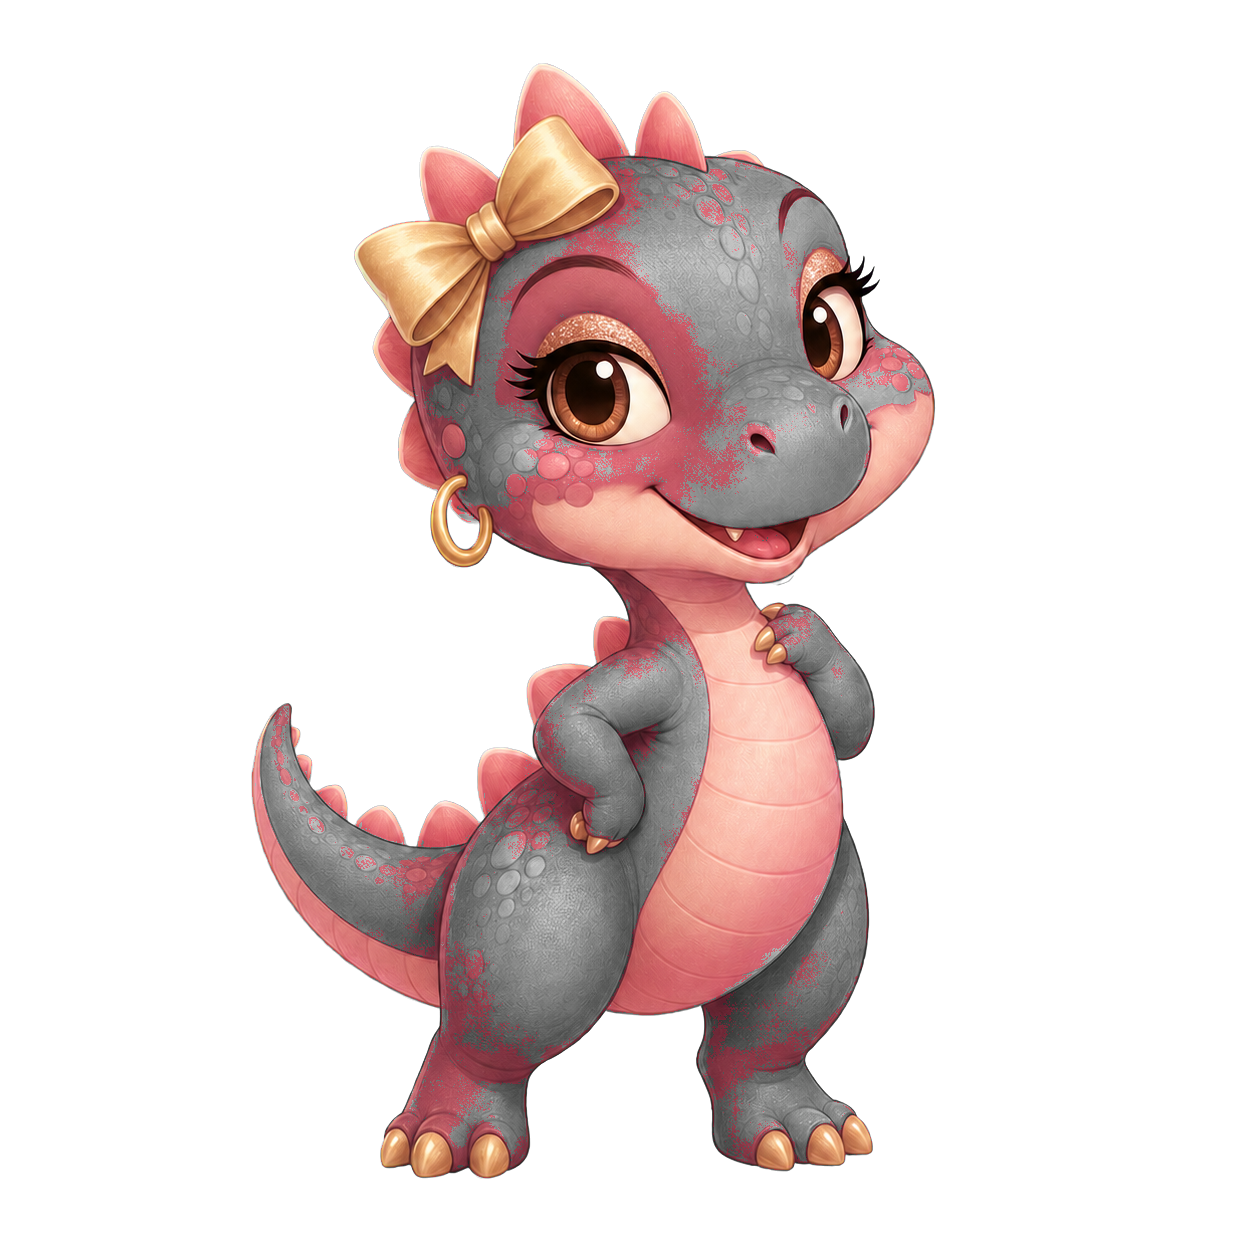
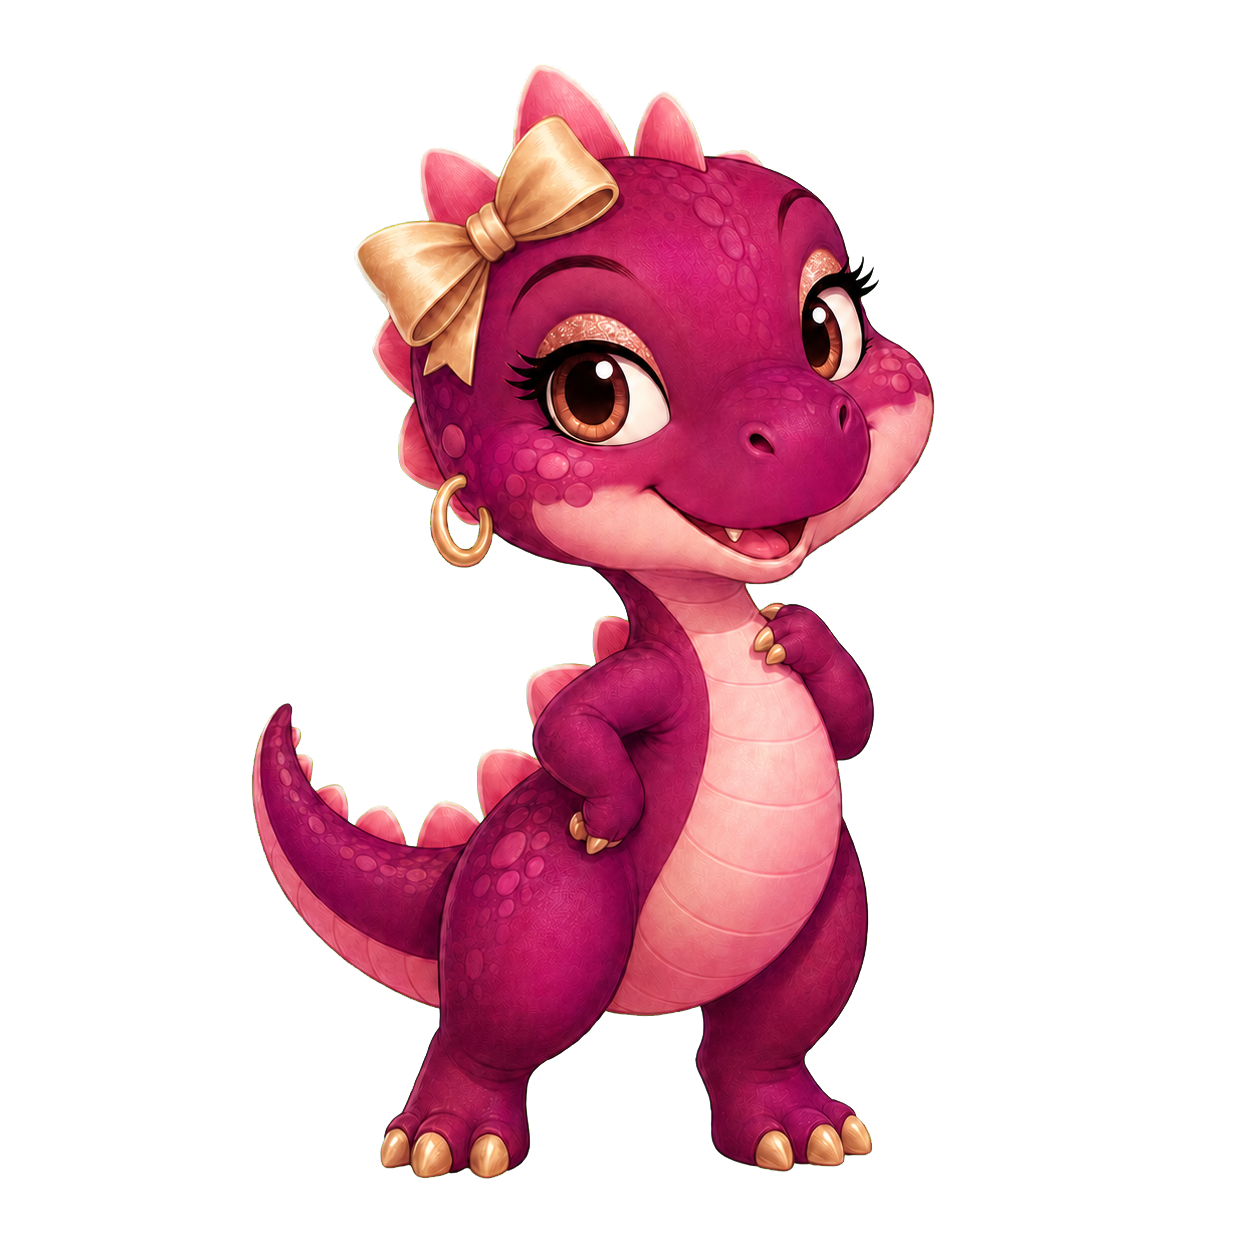
Add Lulu transformation and companion switching

Changed region(s): [[0.1866, 0.0622, 0.7464, 0.933]]

diff --git a/sprint6c1.js b/sprint6c1.js
@@ -11,8 +11,10 @@ const pageLines={
   profile:['That is my gorgeous bestie right there.']
 };
 const idleLines=['Girl… what are we doing over here? 👀','Bestie, I was just checking on you.','Queen, drink a little water with me?','Gorgeous, I am minding your business lovingly.'];
-let route='dashboard',bubbleTimer,idleTimer,lastLine='';
-const companionConfig=()=>({...{enabled:true,speech:true,frequency:'balanced',surprises:true,reducedMotion:false},...(store.get().companion||{})});
+const luluLines={lani:['Hi, baby girl. Let’s see what made Lani smile today.','Love, these little moments are worth keeping.'],default:['Hi, Shug. We can take today one gentle step at a time.','Sweetheart, you do not have to carry everything at once.']};
+let route='dashboard',bubbleTimer,idleTimer,moveTimer,lastLine='';
+const companionConfig=()=>({...{enabled:true,speech:true,frequency:'balanced',surprises:true,reducedMotion:false,mode:'auto'},...(store.get().companion||{})});
+const activeMode=()=>{const chosen=companionConfig().mode;return chosen==='auto'?(route==='lani'?'lulu':'kiki'):chosen};
 const pick=list=>{const pool=list.filter(line=>line!==lastLine),next=pool[Math.floor(Math.random()*pool.length)]||list[0];lastLine=next;return next};
 
 function say(message){
@@ -25,24 +27,32 @@ function scheduleIdle(){
   clearTimeout(idleTimer);const cfg=companionConfig();if(!cfg.enabled||cfg.frequency==='quiet')return;
   idleTimer=setTimeout(()=>{if(!document.hidden)say(pick(idleLines));scheduleIdle()},(cfg.frequency==='lively'?24000:50000)+Math.random()*14000);
 }
+function moveCompanion(immediate=false){
+  const host=document.querySelector('#kikiCompanion'),cfg=companionConfig();if(!host)return;
+  const width=host.getBoundingClientRect().width||140,min=window.innerWidth>760?280:10,max=Math.max(min,window.innerWidth-width-18);
+  host.style.setProperty('--companion-x',`${Math.round(min+Math.random()*(max-min))}px`);host.classList.toggle('is-walking',!immediate&&!cfg.reducedMotion);
+  clearTimeout(moveTimer);moveTimer=setTimeout(()=>{host.classList.remove('is-walking');moveCompanion()},cfg.frequency==='lively'?15000:26000);
+}
 function saveSetting(patch){store.mutate(d=>{d.companion={...companionConfig(),...patch}})}
 function applySettings(){
   const host=document.querySelector('#kikiCompanion'),cfg=companionConfig();if(!host)return;
-  host.hidden=!cfg.enabled;document.documentElement.dataset.companionMotion=cfg.reducedMotion?'reduced':'standard';scheduleIdle();
+  const mode=activeMode(),image=host.querySelector('img');host.hidden=!cfg.enabled;host.dataset.mode=mode;
+  image.src=mode==='lulu'?'assets/companion/lulu.png':'assets/companion/kiki.png';image.alt=mode==='lulu'?'Lulu, your gentle dinosaur companion':'Kiki, your tiny dinosaur companion';
+  document.documentElement.dataset.companionMotion=cfg.reducedMotion?'reduced':'standard';scheduleIdle();
 }
 function renderSettings(){
   const cfg=companionConfig(),panel=document.querySelector('#kikiSettings');
-  panel.innerHTML=`<div class="kiki-settings-head"><div><span>Kiki Companion</span><b>Your nosy little homegirl</b></div><button type="button" data-kiki-close aria-label="Close Kiki settings">×</button></div><label><span>Show Kiki</span><input type="checkbox" data-kiki-setting="enabled" ${cfg.enabled?'checked':''}></label><label><span>Speech bubbles</span><input type="checkbox" data-kiki-setting="speech" ${cfg.speech?'checked':''}></label><label><span>Rare surprises</span><input type="checkbox" data-kiki-setting="surprises" ${cfg.surprises?'checked':''}></label><label><span>Activity</span><select data-kiki-setting="frequency"><option value="quiet" ${cfg.frequency==='quiet'?'selected':''}>Quiet</option><option value="balanced" ${cfg.frequency==='balanced'?'selected':''}>Balanced</option><option value="lively" ${cfg.frequency==='lively'?'selected':''}>Lively</option></select></label><label><span>Reduced motion</span><input type="checkbox" data-kiki-setting="reducedMotion" ${cfg.reducedMotion?'checked':''}></label>`;
+  panel.innerHTML=`<div class="kiki-settings-head"><div><span>Kiki + Lulu</span><b>Your companion, your choice</b></div><button type="button" data-kiki-close aria-label="Close companion settings">×</button></div><label><span>Companion mode</span><select data-kiki-setting="mode"><option value="auto" ${cfg.mode==='auto'?'selected':''}>Automatic</option><option value="kiki" ${cfg.mode==='kiki'?'selected':''}>Kiki</option><option value="lulu" ${cfg.mode==='lulu'?'selected':''}>Lulu</option></select></label><label><span>Show companion</span><input type="checkbox" data-kiki-setting="enabled" ${cfg.enabled?'checked':''}></label><label><span>Speech bubbles</span><input type="checkbox" data-kiki-setting="speech" ${cfg.speech?'checked':''}></label><label><span>Rare surprises</span><input type="checkbox" data-kiki-setting="surprises" ${cfg.surprises?'checked':''}></label><label><span>Activity</span><select data-kiki-setting="frequency"><option value="quiet" ${cfg.frequency==='quiet'?'selected':''}>Quiet</option><option value="balanced" ${cfg.frequency==='balanced'?'selected':''}>Balanced</option><option value="lively" ${cfg.frequency==='lively'?'selected':''}>Lively</option></select></label><label><span>Reduced motion</span><input type="checkbox" data-kiki-setting="reducedMotion" ${cfg.reducedMotion?'checked':''}></label>`;
   panel.querySelector('[data-kiki-close]').onclick=()=>panel.hidePopover();
   panel.querySelectorAll('[data-kiki-setting]').forEach(control=>control.onchange=()=>{saveSetting({[control.dataset.kikiSetting]:control.type==='checkbox'?control.checked:control.value});applySettings();renderSettings()});
 }
 function mount(){
   if(document.querySelector('#kikiCompanion'))return;
   document.body.insertAdjacentHTML('beforeend',`<aside id="kikiCompanion" class="kiki-companion" aria-label="Kiki companion"><div class="kiki-bubble" role="status" aria-live="polite" hidden></div><button type="button" class="kiki-character" aria-label="Talk to Kiki"><img src="assets/companion/kiki.png" alt="Kiki, your tiny dinosaur companion"></button><button type="button" class="kiki-settings-button" aria-label="Kiki settings" popovertarget="kikiSettings">•••</button></aside><section id="kikiSettings" class="kiki-settings" aria-label="Kiki settings" popover></section>`);
-  document.querySelector('.kiki-character').onclick=()=>say(pick(pageLines[route]||idleLines));renderSettings();applySettings();
+  document.querySelector('.kiki-character').onclick=()=>say(pick(activeMode()==='lulu'?(luluLines[route]||luluLines.default):(pageLines[route]||idleLines)));renderSettings();applySettings();moveCompanion(true);
 }
 export function enhanceSprint6C1(id){
-  mount();route=id||'dashboard';const host=document.querySelector('#kikiCompanion');host.dataset.route=route;
-  clearTimeout(host._greeting);host._greeting=setTimeout(()=>say(pick(pageLines[route]||idleLines)),700);
+  mount();route=id||'dashboard';const host=document.querySelector('#kikiCompanion');host.dataset.route=route;applySettings();moveCompanion();
+  clearTimeout(host._greeting);host._greeting=setTimeout(()=>say(pick(activeMode()==='lulu'?(luluLines[route]||luluLines.default):(pageLines[route]||idleLines))),700);
   const badge=document.querySelector('#kcBuildStatus b');if(badge)badge.textContent='Sprint 6C.1 · Kiki Foundation';
 }

diff --git a/app.css b/app.css
@@ -36,7 +36,7 @@
 @media(prefers-reduced-motion:reduce){html{scroll-behavior:auto}.page>*,.module,.card,.btn{animation:none!important;transition:none!important}}
 
 /* Sprint 6C.1 — Kiki companion foundation */
-.kiki-companion{position:fixed;right:clamp(10px,2.4vw,34px);bottom:max(12px,env(safe-area-inset-bottom));z-index:78;width:clamp(116px,12vw,172px);display:grid;justify-items:center;filter:drop-shadow(0 16px 22px rgba(53,29,42,.2));pointer-events:none}
+.kiki-companion{position:fixed;left:var(--companion-x,calc(100vw - 190px));bottom:max(12px,env(safe-area-inset-bottom));z-index:78;width:clamp(116px,12vw,172px);display:grid;justify-items:center;filter:drop-shadow(0 16px 22px rgba(53,29,42,.2));pointer-events:none;transition:left 4s cubic-bezier(.35,.05,.2,1)}
 .kiki-character,.kiki-settings-button{pointer-events:auto;border:0;background:transparent;color:var(--ink)}
 .kiki-character{padding:0;width:100%;transition:transform .3s ease}.kiki-character:hover{transform:translateY(-5px) rotate(-1deg)}
 .kiki-character img{display:block;width:100%;height:auto;max-height:190px;object-fit:contain}
@@ -44,10 +44,12 @@
 .kiki-bubble{position:absolute;right:68%;bottom:74%;width:min(260px,65vw);padding:13px 15px;border:1px solid color-mix(in srgb,var(--gold) 52%,var(--line));border-radius:18px 18px 4px 18px;background:color-mix(in srgb,var(--paper) 96%,transparent);color:var(--ink);box-shadow:0 14px 40px rgba(53,29,42,.18);font:700 14px/1.4 Inter,sans-serif;backdrop-filter:blur(15px);pointer-events:none}
 .kiki-companion[data-activity="arrive"] .kiki-character{animation:kikiArrive .7s cubic-bezier(.2,.8,.2,1)}
 .kiki-companion.is-talking .kiki-character{animation:kikiTalk .75s ease-in-out infinite alternate}
+.kiki-companion.is-walking .kiki-character{animation:kikiWalk .55s ease-in-out infinite alternate}.kiki-companion[data-mode="lulu"]{filter:drop-shadow(0 16px 24px rgba(206,93,142,.24))}
 .kiki-settings{position:fixed;right:clamp(16px,3vw,42px);bottom:clamp(150px,22vh,235px);z-index:79;width:min(330px,calc(100vw - 32px));padding:17px;border:1px solid var(--line);border-radius:22px;background:color-mix(in srgb,var(--paper) 96%,transparent);box-shadow:0 25px 70px rgba(31,18,26,.28);backdrop-filter:blur(20px)}
 .kiki-settings-head{display:flex;align-items:flex-start;justify-content:space-between;margin-bottom:11px}.kiki-settings-head span{display:block;font:22px Georgia,serif}.kiki-settings-head b{display:block;color:var(--muted);font-size:12px;margin-top:2px}.kiki-settings-head button{border:0;background:transparent;color:var(--ink);font-size:24px}.kiki-settings label{display:flex;align-items:center;justify-content:space-between;gap:18px;padding:10px 2px;border-top:1px solid var(--line);font-weight:750}.kiki-settings select{width:auto;min-width:112px;padding:7px 9px;border-radius:12px}.kiki-settings input[type="checkbox"]{width:20px;height:20px;accent-color:var(--gold3)}
 @keyframes kikiArrive{0%{opacity:0;transform:translateX(45px) rotate(5deg)}70%{opacity:1;transform:translateX(-4px) rotate(-2deg)}100%{transform:none}}
 @keyframes kikiTalk{to{transform:translateY(-4px) rotate(1.5deg)}}
+@keyframes kikiWalk{to{transform:translateY(-7px) rotate(-2deg)}}
 html[data-companion-motion="reduced"] .kiki-companion *{animation:none!important;transition:none!important}
 @media(prefers-reduced-motion:reduce){.kiki-companion *{animation:none!important;transition:none!important}}
 @media(max-width:720px){.kiki-companion{width:106px;right:8px;bottom:max(8px,env(safe-area-inset-bottom))}.kiki-bubble{right:60%;bottom:78%;font-size:13px;width:min(230px,70vw)}.kiki-settings{bottom:125px}}

diff --git a/sw.js b/sw.js
@@ -1,6 +1,6 @@
 const CACHE='key-collective-6c1-kiki-foundation';
 const APP_SHELL=['./','./index.html','./tokens.css?v=16.21','./app.css?v=16.49.0','./app.js?v=16.49.0','./config.js','./router.js','./store.js','./weather.js','./controllers.js','./pages.js','./news.js','./sprint3.js','./sprint4.js','./sprint5.js','./sprint6a.js','./sprint6b.js','./sprint6b1.js','./sprint6b1final.js','./sprint6b2.js','./sprint6b3.js','./sprint6b4.js','./sprint6b5.js','./sprint6b6.js','./sprint6b7.js','./sprint6b8.js?v=16.43.7','./sprint6b9.js','./sprint6b10.js','./sprint6b11.js','./sprint6b12.js','./sprint6b13.js','./sprint6b13r2.js','./sprint6b14.js','./sprint6b15.js','./sprint6b16.js','./sprint6b17.js','./sprint6b18.js?v=16.43.7','./sprint6b19.js','./sprint6b22.js?v=16.43.7','./sprint6b23.js','./sprint6b24.js','./sprint6b25.js','./sprint6b26.js?v=16.43.7','./sprint6b43.js?v=16.44.7','./sprint6b44.js?v=16.44.9','./sprint6b45.js?v=16.45.1','./sprint6b46.js?v=16.46.1','./sprint6b47.js?v=16.48.2','./sprint6b48.js?v=16.48.2','./sprint6b49.js?v=16.49.0','./google-calendar.js','./memo-db.js','./photo-db.js','./logo.png','./profile.jpg','./manifest.webmanifest','./icon-192.png','./icon-512.png','./apple-touch-icon.png'];
-APP_SHELL.push('./app.css?v=16.51.0','./app.js?v=16.51.1','./sprint6c1.js?v=16.51.1','./assets/companion/kiki.png');
+APP_SHELL.push('./app.css?v=16.51.0','./app.js?v=16.51.4','./sprint6c1.js?v=16.51.4','./assets/companion/kiki.png','./assets/companion/lulu.png');
 self.addEventListener('install',event=>event.waitUntil(caches.open(CACHE).then(cache=>cache.addAll(APP_SHELL)).then(()=>self.skipWaiting())));
 self.addEventListener('activate',event=>event.waitUntil(caches.keys().then(keys=>Promise.all(keys.filter(key=>key!==CACHE).map(key=>caches.delete(key)))).then(()=>self.clients.claim())));
 self.addEventListener('message',event=>{if(event.data?.type==='SKIP_WAITING')self.skipWaiting()});

diff --git a/app.js b/app.js
@@ -39,7 +39,7 @@ import {enhanceSprint6B46} from './sprint6b46.js?v=16.46.1';
 import {enhanceSprint6B47} from './sprint6b47.js?v=16.48.2';
 import {enhanceSprint6B48} from './sprint6b48.js?v=16.48.2';
 import {enhanceSprint6B49} from './sprint6b49.js?v=16.49.0';
-import {enhanceSprint6C1} from './sprint6c1.js?v=16.51.3';
+import {enhanceSprint6C1} from './sprint6c1.js?v=16.51.4';
 
 patchPages(pages);
 patchPagesSprint5(pages);

diff --git a/index.html b/index.html
@@ -32,5 +32,5 @@
 </div>
 <div id="offlineBanner" class="offline-banner">Offline mode · saved features remain available</div>
 <div id="toast" class="toast" role="status"></div>
-<script type="module" src="app.js?v=16.51.3"></script>
+<script type="module" src="app.js?v=16.51.4"></script>
 </body></html>

diff --git a/SPRINT_6C1_RELEASE_NOTES.md b/SPRINT_6C1_RELEASE_NOTES.md
@@ -6,11 +6,15 @@ Kiki now lives globally across The Key Collective OS as a persistent, page-aware
 
 ## Included
 
-- Official Kiki artwork with champagne-gold glitter eyeshadow.
+- Official Kiki artwork with a rich berry-plum body and champagne-gold glitter eyeshadow.
+- Official Lulu variation with soft pink blush and a gentler expression.
 - Persistent app-shell placement across all 14 routes.
 - Page-specific, non-shaming dialogue using Kiki’s approved voice.
 - Tap-to-talk behavior and timed autonomous check-ins.
 - Settings for visibility, speech, activity frequency, surprises, and reduced motion.
+- Automatic, Kiki, and Lulu companion-mode selection.
+- Automatic Lulu transformation inside Lani’s Corner.
+- Safe wandering movement across the lower screen instead of a fixed corner position.
 - Mobile-safe positioning and accessible status messaging.
 - A companion state structure ready for Lulu and Pushin’ P.
 

diff --git a/SPRINT_6C1_VERIFICATION_REPORT.md b/SPRINT_6C1_VERIFICATION_REPORT.md
@@ -6,5 +6,9 @@
 - Kiki rendered with a completed image on every route.
 - Financial Studio navigation updated Kiki’s route and dialogue without a reload.
 - Kiki’s settings popover opened successfully.
+- Automatic mode changed Kiki to Lulu inside Lani’s Corner.
+- Manual Kiki selection overrode the automatic Lulu transformation.
+- Returning to Automatic restored Lulu and the selection persisted through shared state.
+- Companion position changed within safe viewport boundaries.
 - No browser console errors were detected.
 - The Sprint 6B.49 layouts and stored-data workflows remain unchanged.
